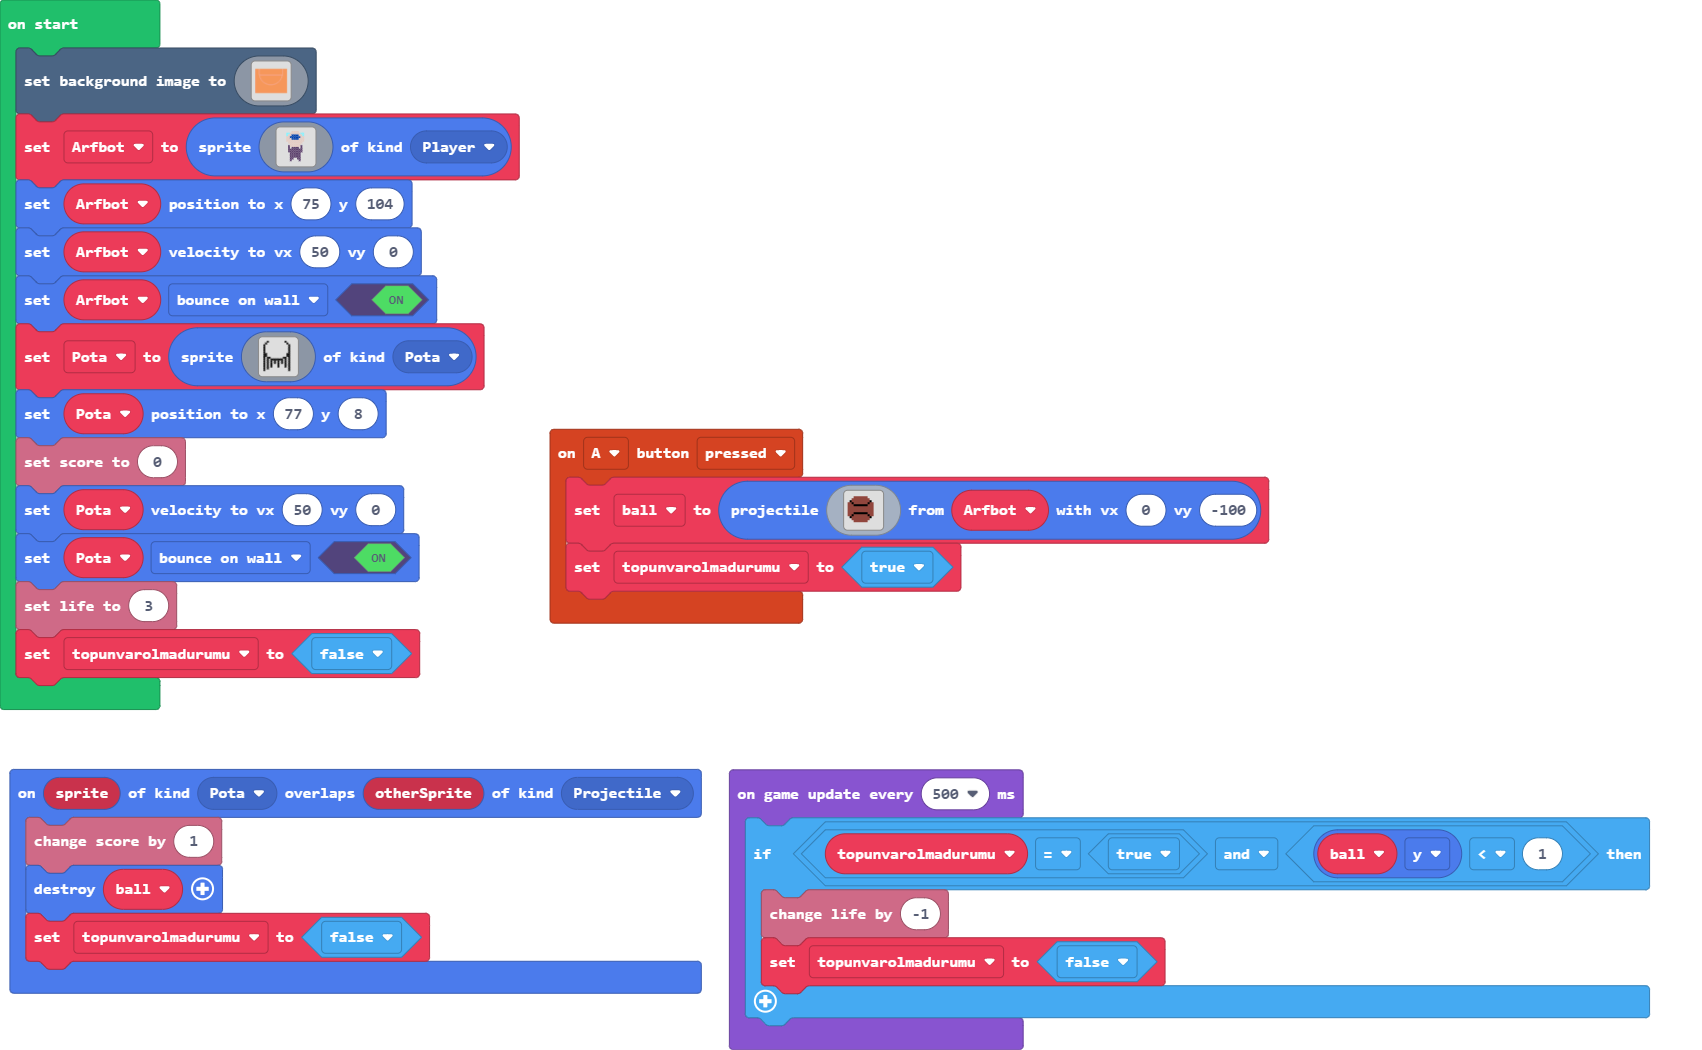
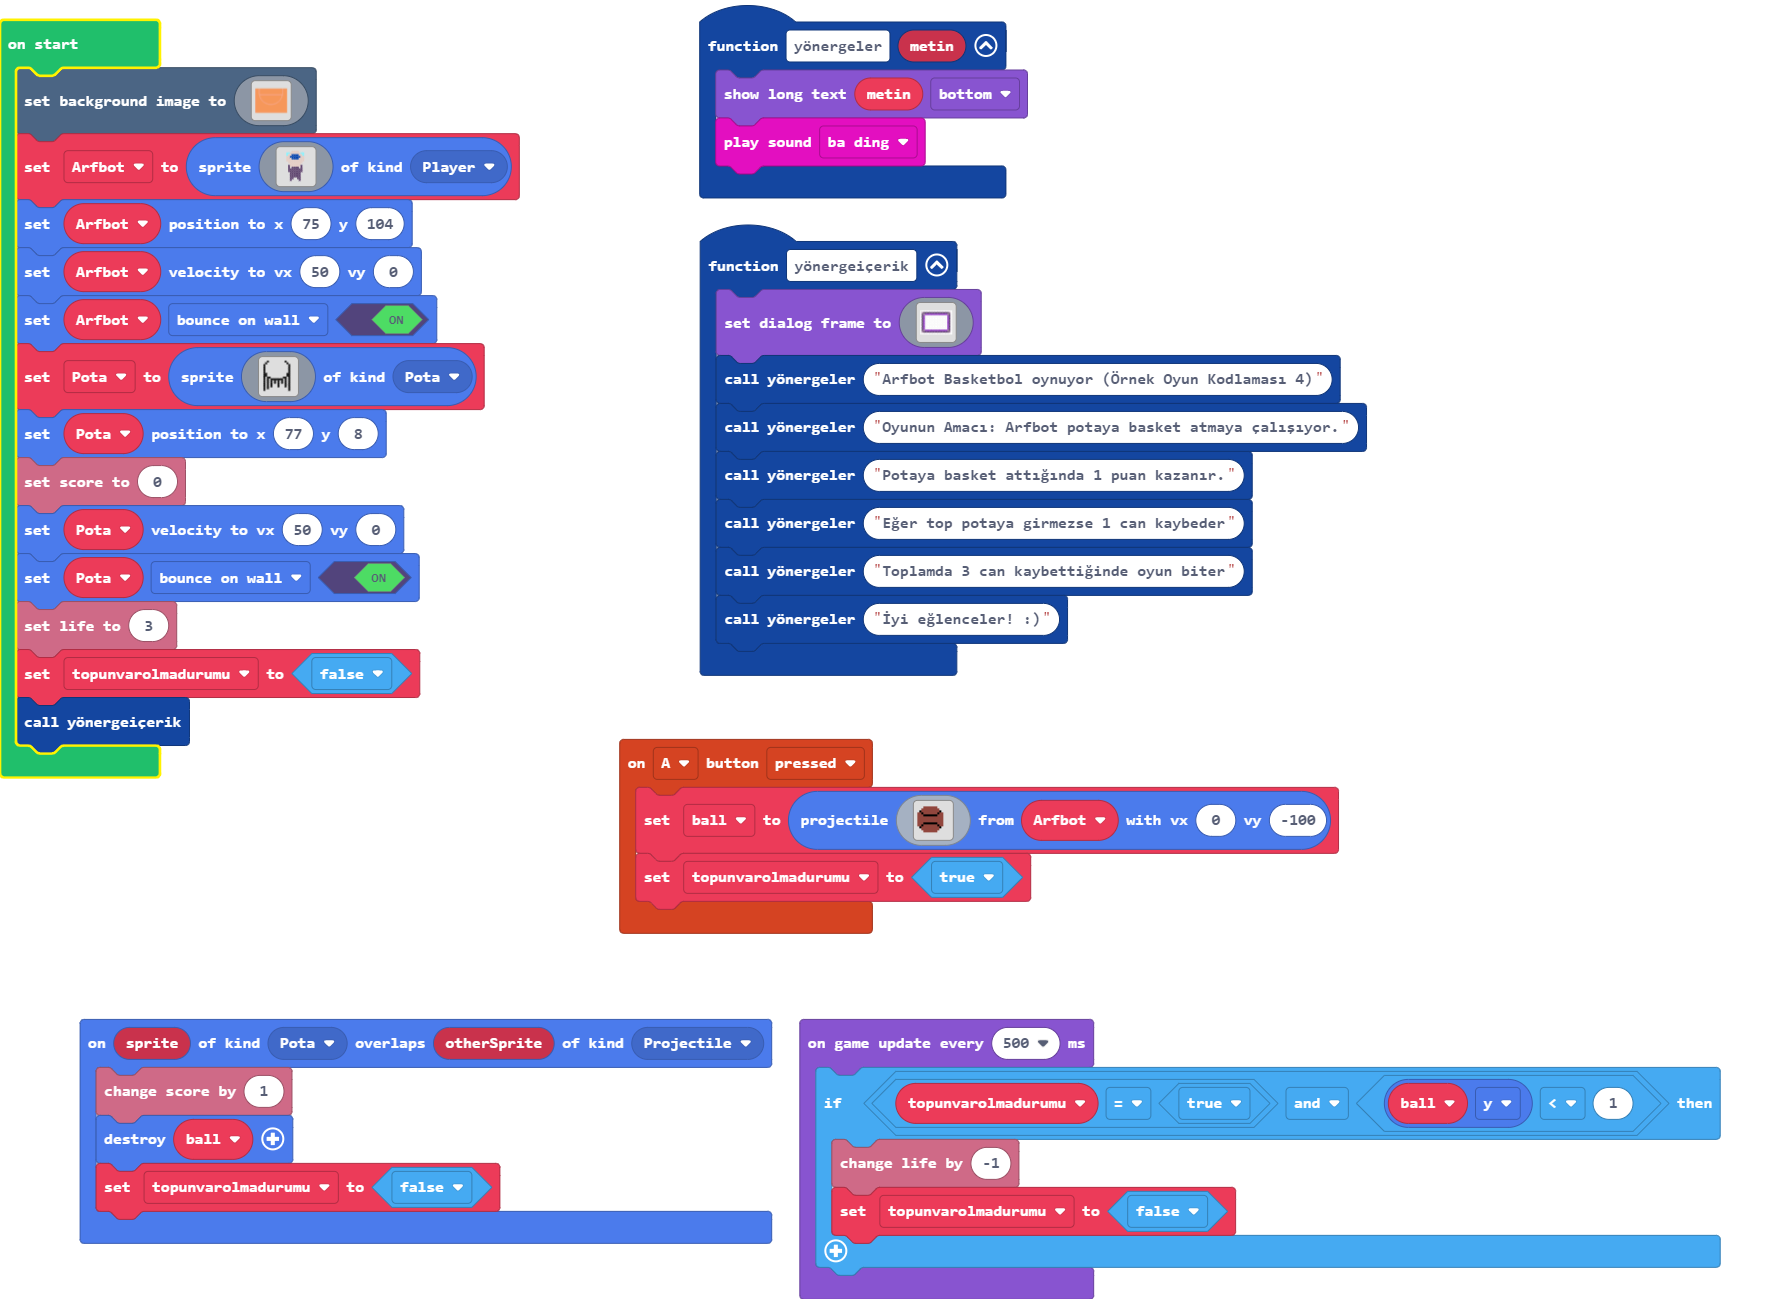
Update main.blocks, main.ts, images.g.jres, images.g.ts

diff --git a/main.ts b/main.ts
@@ -6,6 +6,10 @@ sprites.onOverlap(SpriteKind.Pota, SpriteKind.Projectile, function (sprite, othe
     ball.destroy()
     topunvarolmadurumu = false
 })
+function yönergeler (metin: string) {
+    game.showLongText(metin, DialogLayout.Bottom)
+    music.baDing.play()
+}
 controller.A.onEvent(ControllerButtonEvent.Pressed, function () {
     ball = sprites.createProjectileFromSprite(img`
         . . . . . . . . . . . . . . . . 
@@ -27,6 +31,31 @@ controller.A.onEvent(ControllerButtonEvent.Pressed, function () {
         `, Arfbot, 0, -100)
     topunvarolmadurumu = true
 })
+function yönergeiçerik () {
+    game.setDialogFrame(img`
+        1 1 1 1 1 1 1 1 1 1 1 1 1 1 1 1 1 1 1 1 
+        1 b c c c c c c c c c c c c c c c c b 1 
+        1 c b a a a a a a a a a a a a a a b c 1 
+        1 c a 1 1 1 1 1 1 1 1 1 1 1 1 1 1 a c 1 
+        1 c a 1 1 1 1 1 1 1 1 1 1 1 1 1 1 a c 1 
+        1 c a 1 1 1 1 1 1 1 1 1 1 1 1 1 1 a c 1 
+        1 c a 1 1 1 1 1 1 1 1 1 1 1 1 1 1 a c 1 
+        1 c a 1 1 1 1 1 1 1 1 1 1 1 1 1 1 a c 1 
+        1 c a 1 1 1 1 1 1 1 1 1 1 1 1 1 1 a c 1 
+        1 c a 1 1 1 1 1 1 1 1 1 1 1 1 1 1 a c 1 
+        1 c a 1 1 1 1 1 1 1 1 1 1 1 1 1 1 a c 1 
+        1 c a 1 1 1 1 1 1 1 1 1 1 1 1 1 1 a c 1 
+        1 c b a a a a a a a a a a a a a a b c 1 
+        1 b c c c c c c c c c c c c c c c c b 1 
+        1 1 1 1 1 1 1 1 1 1 1 1 1 1 1 1 1 1 1 1 
+        `)
+    yönergeler("Arfbot Basketbol oynuyor (Örnek Oyun Kodlaması 4)")
+    yönergeler("Oyunun Amacı: Arfbot potaya basket atmaya çalışıyor.")
+    yönergeler("Potaya basket attığında 1 puan kazanır.")
+    yönergeler("Eğer top potaya girmezse 1 can kaybeder")
+    yönergeler("Toplamda 3 can kaybettiğinde oyun biter")
+    yönergeler("İyi eğlenceler! :)")
+}
 let ball: Sprite = null
 let topunvarolmadurumu = false
 let Arfbot: Sprite = null
@@ -201,6 +230,7 @@ Pota.setVelocity(50, 0)
 Pota.setFlag(SpriteFlag.BounceOnWall, true)
 info.setLife(3)
 topunvarolmadurumu = false
+yönergeiçerik()
 game.onUpdateInterval(500, function () {
     if (topunvarolmadurumu == true && ball.y < 1) {
         info.changeLifeBy(-1)

diff --git a/images.g.ts b/images.g.ts
@@ -165,24 +165,6 @@ f . f . . . . . . . . . . . f .
 f . . . . . . . . . . . . . f . 
 . . . . . . . . . . . . . . . . 
 `;
-            case "image6":return img`
-. . . . . . . . . . . . . . . . 
-. . . e e e e e e e . . . . . . 
-. . e e e e e e e e e . . . . . 
-. f e e e e e e e e e f . . . . 
-e e f e e e e e e e f e e . . . 
-e e e f f f f f f f e e e . . . 
-e e e e e e e e e e e e e . . . 
-e e e e e e e e e e e e e . . . 
-e e e e e e e e e e e e e . . . 
-e e e f f f f f f f e e e . . . 
-e e f e e e e e e e f e e . . . 
-. f e e e e e e e e e f . . . . 
-. . e e e e e e e e e . . . . . 
-. . . e e e e e e e . . . . . . 
-. . . . . . . . . . . . . . . . 
-. . . . . . . . . . . . . . . . 
-`;
             case "image4":return img`
 . . . . . . . . . . . . . . . . 
 . . . e e e e e e e . . . . . . 
@@ -200,6 +182,23 @@ e e f e e e e e e e f e e . . .
 . . . e e e e e e e . . . . . . 
 . . . . . . . . . . . . . . . . 
 . . . . . . . . . . . . . . . . 
+`;
+            case "image5":return img`
+1 1 1 1 1 1 1 1 1 1 1 1 1 1 1 1 1 1 1 1 
+1 b c c c c c c c c c c c c c c c c b 1 
+1 c b a a a a a a a a a a a a a a b c 1 
+1 c a 1 1 1 1 1 1 1 1 1 1 1 1 1 1 a c 1 
+1 c a 1 1 1 1 1 1 1 1 1 1 1 1 1 1 a c 1 
+1 c a 1 1 1 1 1 1 1 1 1 1 1 1 1 1 a c 1 
+1 c a 1 1 1 1 1 1 1 1 1 1 1 1 1 1 a c 1 
+1 c a 1 1 1 1 1 1 1 1 1 1 1 1 1 1 a c 1 
+1 c a 1 1 1 1 1 1 1 1 1 1 1 1 1 1 a c 1 
+1 c a 1 1 1 1 1 1 1 1 1 1 1 1 1 1 a c 1 
+1 c a 1 1 1 1 1 1 1 1 1 1 1 1 1 1 a c 1 
+1 c a 1 1 1 1 1 1 1 1 1 1 1 1 1 1 a c 1 
+1 c b a a a a a a a a a a a a a a b c 1 
+1 b c c c c c c c c c c c c c c c c b 1 
+1 1 1 1 1 1 1 1 1 1 1 1 1 1 1 1 1 1 1 1 
 `;
         }
         return null;
